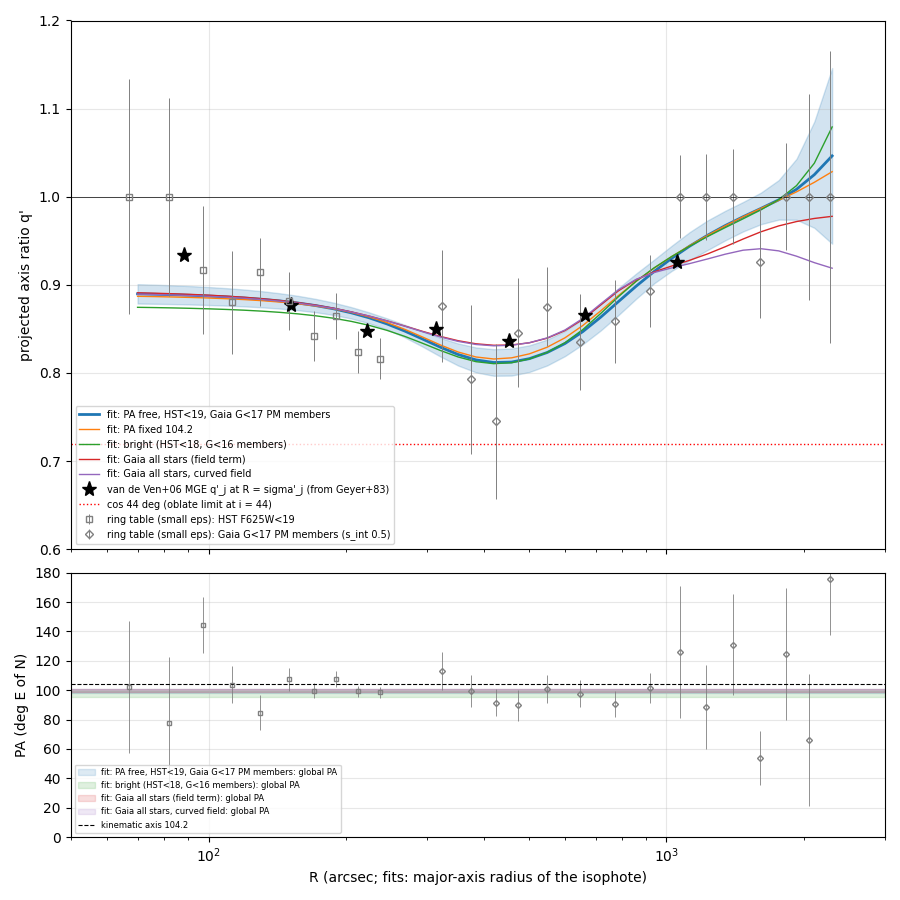
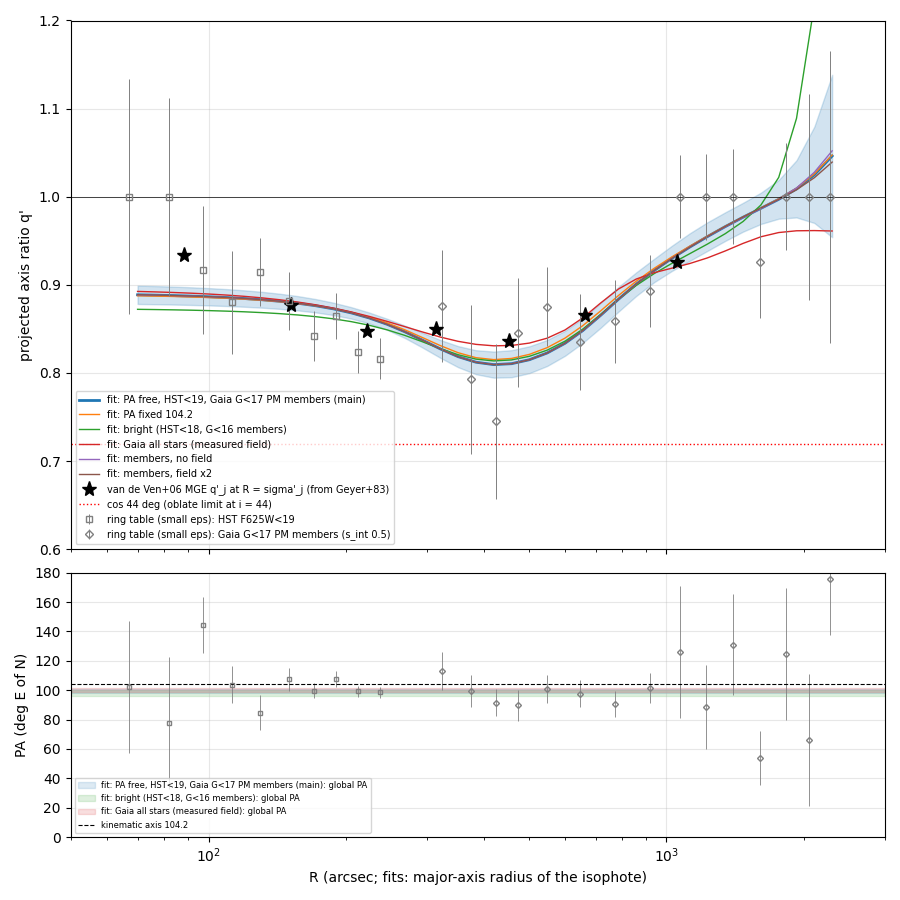
Shape: comparison plot with the new (linear-weight, measured-field) fits and field x0/x2 variants; mock summary plot (180 mocks, 9 tests)

diff --git a/bin/plot_shape_compare.py b/bin/plot_shape_compare.py
@@ -19,11 +19,12 @@ import numpy as np
 ROOT = Path(__file__).resolve().parents[1]
 VDV_S = np.array([0.153, 1.477, 2.525, 3.691, 5.219, 7.534, 11.069, 17.547])*60      # major-axis sigma' (arcsec)
 VDV_Q = np.array([1.000, 0.934, 0.877, 0.848, 0.850, 0.836, 0.866, 0.926])
-LABEL = {"pafree_h19_g17members_r2400": "fit: PA free, HST<19, Gaia G<17 PM members",
+LABEL = {"pafree_h19_g17members_r2400": "fit: PA free, HST<19, Gaia G<17 PM members (main)",
          "pafixed_h19_g17members_r2400": "fit: PA fixed 104.2",
          "pafree_h18_g16members_r2400": "fit: bright (HST<18, G<16 members)",
-         "pafree_h19_g17all_r2400": "fit: Gaia all stars (field term)",
-         "pafree_h19_g17all_r2400_quad": "fit: Gaia all stars, curved field"}
+         "pafree_h19_g17all_r2400": "fit: Gaia all stars (measured field)",
+         "pafree_h19_g17members_r2400_fx0": "fit: members, no field",
+         "pafree_h19_g17members_r2400_fx2": "fit: members, field x2"}
 
 
 def main():
@@ -38,7 +39,7 @@ def main():
         ax[0].plot(R, q, "-", lw=2 if j == 0 else 1, label=lab, c=f"C{j}")
         if j == 0:
             ax[0].fill_between(R, q-e, q+e, color="C0", alpha=.2)
-        if d.get("pa_err", 0) > 0:                              # global PA of the fit, drawn as a band (free-PA fits)
+        if d.get("pa_err", 0) > 0 and j < 4:                              # global PA of the fit, drawn as a band (free-PA fits)
             ax[1].axhspan(d["pa"]-d["pa_err"], d["pa"]+d["pa_err"], color=f"C{j}", alpha=.15, label=f"{lab}: global PA")
         rows.append((lab, d))
     tab = json.loads((ROOT/"results/shape/ring_table_20261115.json").read_text())
@@ -60,7 +61,7 @@ def main():
     for lab, d in rows:
         qi = np.interp(VDV_S[1:], d["R_iso"], d["q_iso"])
         print(f"{lab}: PA {d['pa']:.1f}+-{d.get('pa_err', 0):.1f}; q_iso at vdV radii {np.round(qi, 3).tolist()}; "
-              f"field lnF {d['x'][d['names'].index('lnF')]:.2f}")
+              f"field lnF {d['field']['lnF_gx_gy'][0]:.2f}")
     print("van de Ven+06:", VDV_Q[1:].tolist(), "at", np.round(VDV_S[1:]).tolist())
 
 
